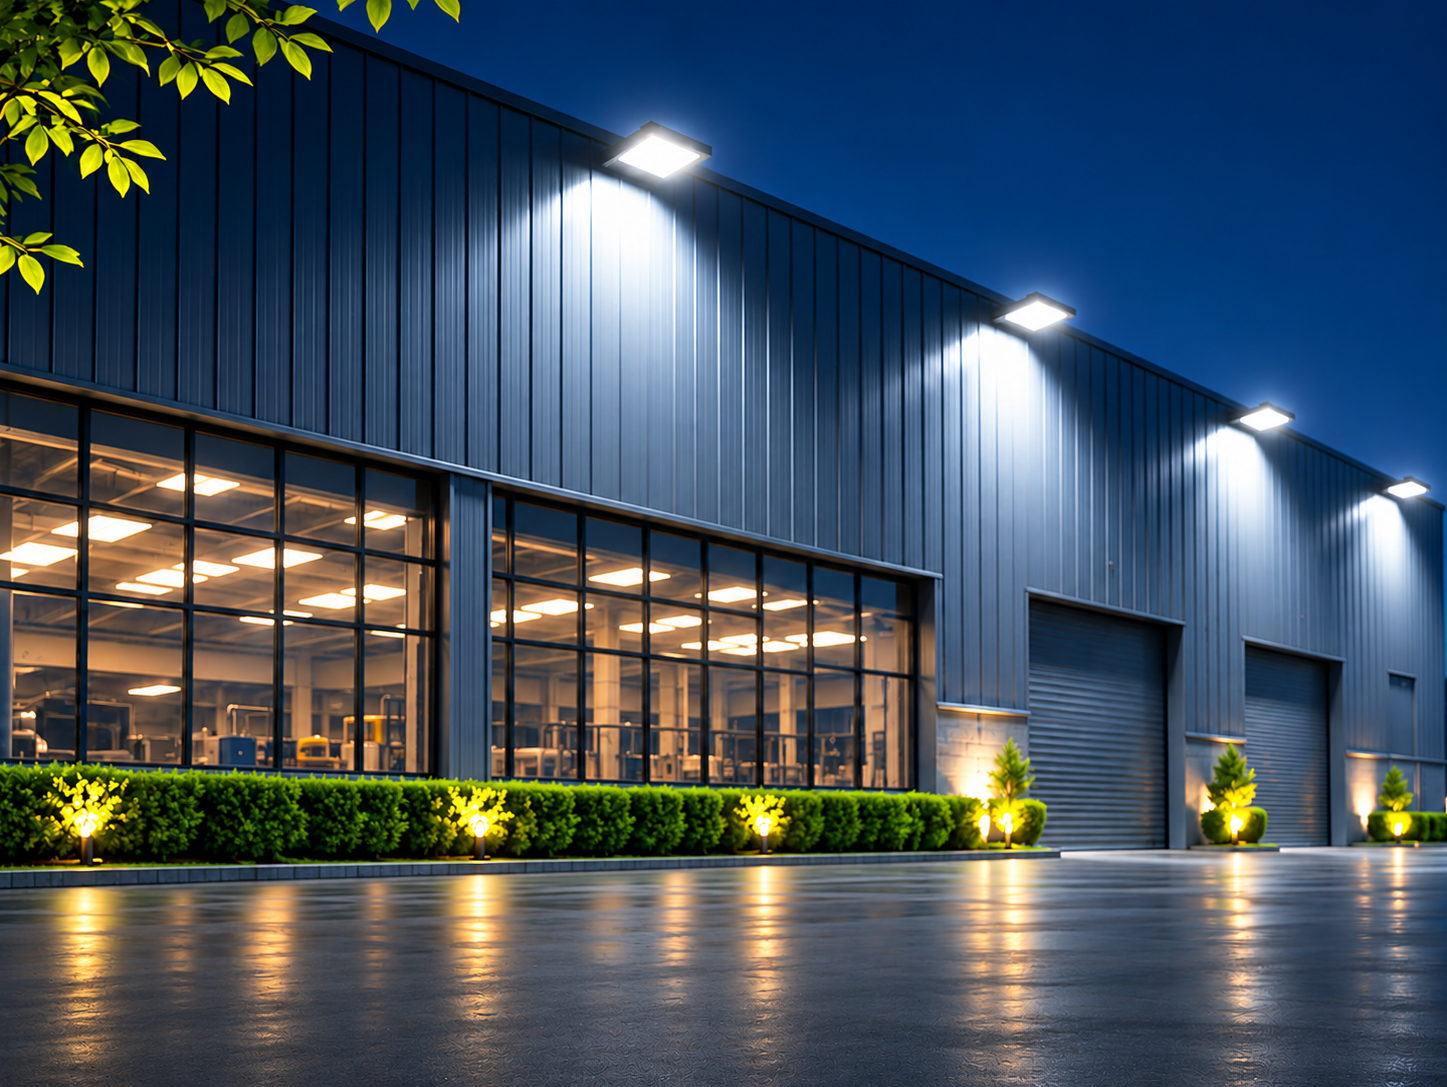
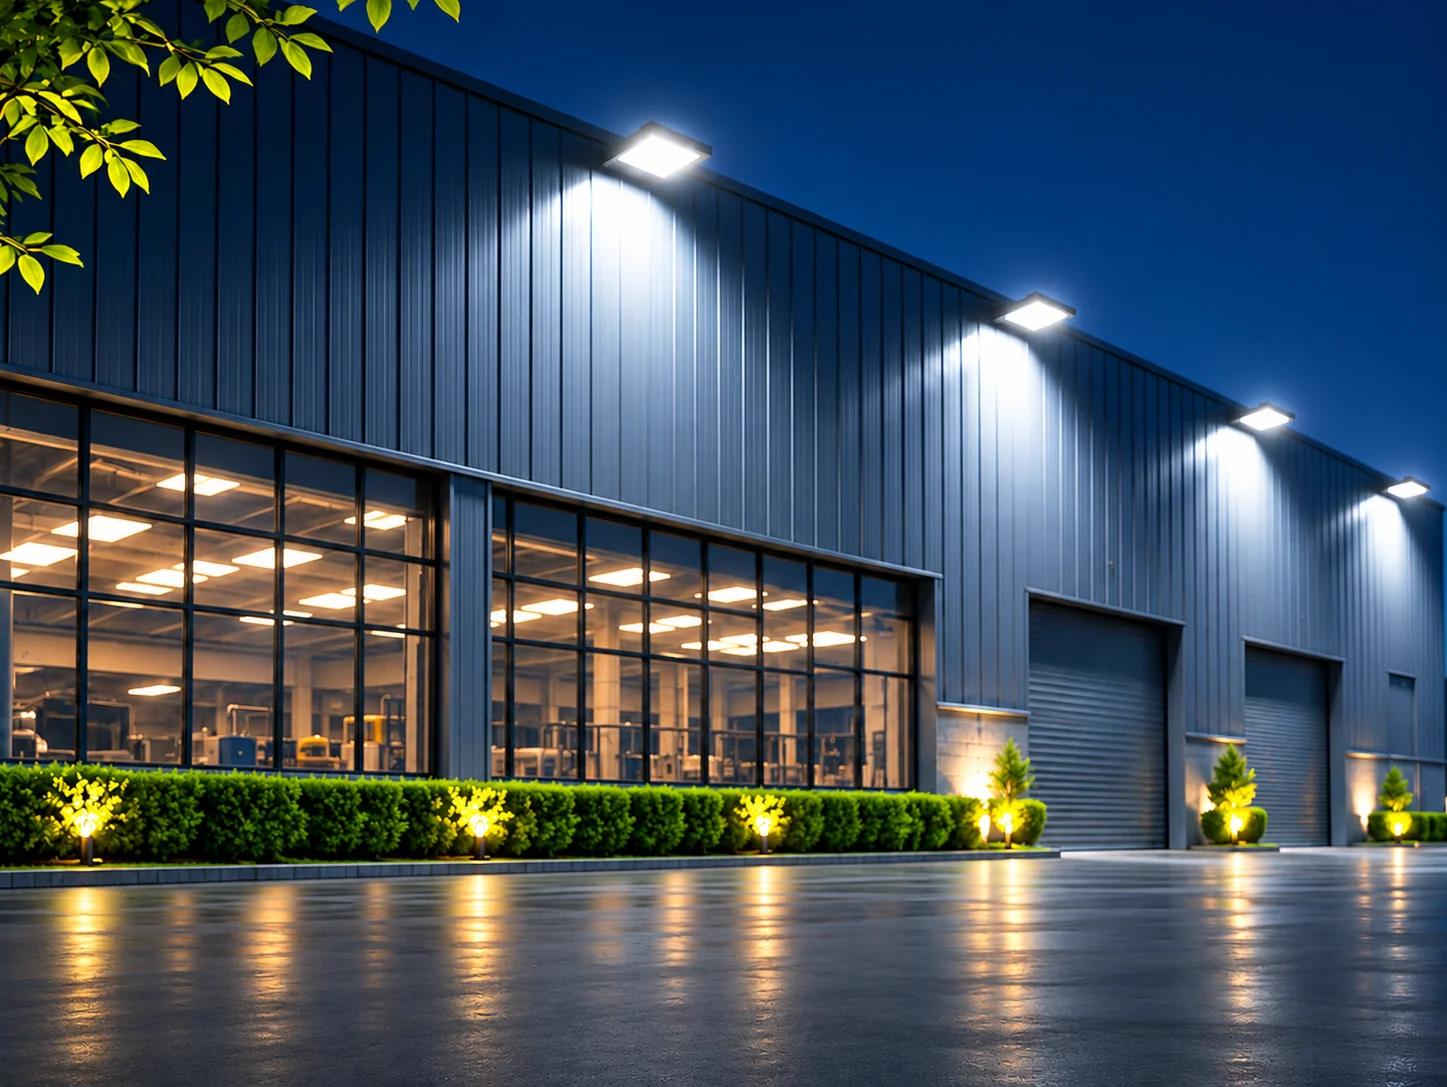
Lighten image loading and smooth Android homepage motion

diff --git a/src/components/home/streetlight-scene.tsx b/src/components/home/streetlight-scene.tsx
@@ -17,6 +17,7 @@ type SceneProps = {
   reduced: boolean;
   compactLayout: boolean;
   paused: boolean;
+  renderOnDemand: boolean;
   pointer: RefObject<{ x: number; y: number }>;
   illumination: RefObject<HTMLDivElement | null>;
   onReady: () => void;
@@ -33,6 +34,7 @@ function Fixture({
   power,
   paused,
   reduced,
+  renderOnDemand,
   compactLayout,
   pointer,
   illumination,
@@ -71,7 +73,7 @@ function Fixture({
 
   useEffect(() => {
     invalidate();
-  }, [invalidate, power, reduced]);
+  }, [invalidate, paused, power, reduced]);
 
   useEffect(() => {
     const canvas = gl.domElement;
@@ -90,7 +92,8 @@ function Fixture({
     readySent.current = true;
     // Three.Clock is deprecated. Cap frame gaps after Safari tab suspension.
     const elapsed = elapsedRef.current;
-    elapsedRef.current += Math.min(delta, 0.05);
+    const frameDelta = Math.min(delta, 0.05);
+    elapsedRef.current += frameDelta;
     const t = MathUtils.smoothstep(elapsed, 0, 1.4);
     fixture.rotation.y = reduced
       ? -0.39
@@ -98,7 +101,7 @@ function Fixture({
           fixture.rotation.y,
           -0.39 + (1 - t) * 0.5 + pointer.current.x * 0.13,
           5,
-          delta,
+          frameDelta,
         );
     fixture.rotation.x = reduced
       ? 0.02
@@ -106,7 +109,7 @@ function Fixture({
           fixture.rotation.x,
           0.02 + pointer.current.y * 0.085,
           5,
-          delta,
+          frameDelta,
         );
     fixture.position.y = reduced
       ? 0
@@ -114,7 +117,7 @@ function Fixture({
           fixture.position.y,
           (1 - t) * 0.16 - pointer.current.y * 0.06,
           5,
-          delta,
+          frameDelta,
         );
     const intensity = reduced
       ? 1
@@ -124,7 +127,7 @@ function Fixture({
     lens.emissiveIntensity =
       reduced || firstFrame || paused
         ? emission
-        : MathUtils.damp(lens.emissiveIntensity, emission, 12, delta);
+        : MathUtils.damp(lens.emissiveIntensity, emission, 12, frameDelta);
     if (spotlight.current) spotlight.current.intensity = 20 * power * intensity;
 
     const overlay = illumination.current;
@@ -136,6 +139,12 @@ function Fixture({
       setLightProperty(overlay, "--light-spread", spread.toFixed(3));
     }
     if (firstFrame) onReady();
+    if (
+      renderOnDemand && !reduced && !paused &&
+      (elapsed < 2.6 || Math.abs(lens.emissiveIntensity - emission) > 0.005)
+    ) {
+      invalidate();
+    }
   });
   return (
     <group ref={group} rotation={[0.02, -0.2, -0.13]}>
@@ -258,7 +267,7 @@ export default function StreetlightScene(props: SceneProps) {
     <Canvas
       aria-hidden
       dpr={[1, props.compactLayout ? 1.2 : 1.5]}
-      frameloop={props.reduced || props.paused ? "demand" : "always"}
+      frameloop={props.reduced || props.paused || props.renderOnDemand ? "demand" : "always"}
       camera={{ position: [-0.18, -1.26, 6.5], fov: 39 }}
       gl={{ alpha: true, antialias: true, powerPreference: "low-power" }}
       onCreated={({ camera, gl }) => {

diff --git a/src/components/global-presence/global-presence.tsx b/src/components/global-presence/global-presence.tsx
@@ -1,6 +1,7 @@
 "use client";
 
 import dynamic from "next/dynamic";
+import Image from "next/image";
 import { ArrowRight, Globe2, MapPin, RotateCcw } from "lucide-react";
 import {
   Component,
@@ -97,44 +98,52 @@ function RegionalMap({ country }: { country: Country }) {
       role="img"
       aria-label={`Regional map with ${country.name} highlighted`}
     >
-      <svg viewBox="0 0 1000 560" aria-hidden="true">
-        <image href="/maps/region.webp" width="1000" height="560" />
-        {country.code !== origin.code && (
-          <path
-            d={`M ${x} ${y} Q ${(x + destX) / 2} ${Math.min(y, destY) - 42} ${destX} ${destY}`}
-            fill="none"
-            stroke="#ffffff"
-            strokeWidth="3"
-            strokeDasharray="8 6"
-          />
-        )}
-        {countries.map((point) => {
-          const [cx, cy] = position(point);
-          const selected = point.code === country.code;
-          return (
-            <g key={point.code}>
-              {selected && (
+      <div className={styles.fallbackMap}>
+        <Image
+          src="/maps/region.webp"
+          alt=""
+          fill
+          loading="lazy"
+          sizes="(max-width: 980px) 92vw, (max-width: 1450px) 60vw, 870px"
+        />
+        <svg viewBox="0 0 1000 560" aria-hidden="true">
+          {country.code !== origin.code && (
+            <path
+              d={`M ${x} ${y} Q ${(x + destX) / 2} ${Math.min(y, destY) - 42} ${destX} ${destY}`}
+              fill="none"
+              stroke="#ffffff"
+              strokeWidth="3"
+              strokeDasharray="8 6"
+            />
+          )}
+          {countries.map((point) => {
+            const [cx, cy] = position(point);
+            const selected = point.code === country.code;
+            return (
+              <g key={point.code}>
+                {selected && (
+                  <circle
+                    cx={cx}
+                    cy={cy}
+                    r="15"
+                    fill="none"
+                    stroke="#ffffff"
+                    strokeWidth="2"
+                  />
+                )}
                 <circle
                   cx={cx}
                   cy={cy}
-                  r="15"
-                  fill="none"
-                  stroke="#ffffff"
+                  r={selected ? 8 : 5}
+                  fill={selected ? "#ffffff" : "#b6b6b6"}
+                  stroke="#000000"
                   strokeWidth="2"
                 />
-              )}
-              <circle
-                cx={cx}
-                cy={cy}
-                r={selected ? 8 : 5}
-                fill={selected ? "#ffffff" : "#b6b6b6"}
-                stroke="#000000"
-                strokeWidth="2"
-              />
-            </g>
-          );
-        })}
-      </svg>
+              </g>
+            );
+          })}
+        </svg>
+      </div>
     </div>
   );
 }

diff --git a/tests/mobile.spec.ts b/tests/mobile.spec.ts
@@ -129,9 +129,11 @@ for (const [width, height] of viewports) {
         await expect(page.locator(".collection-card-link")).toHaveAttribute("href", detailPath);
       } else if (route === detailPath) {
         await page.getByRole("button", { name: "Show detail crop" }).click();
+        await expect(page.locator(".product-lightbox img")).toHaveCount(0);
         await page.getByRole("button", { name: "Open full-size fixture image" }).click();
         const gallery = page.getByRole("dialog", { name: "Detail crop" });
         await expect(gallery).toBeVisible();
+        await expect(gallery.locator("img")).toHaveAttribute("loading", "lazy");
         await expect(gallery.getByRole("button", { name: "Close fixture image" })).toBeInViewport({ ratio: 1 });
         await gallery.getByRole("button", { name: "Magnify fixture" }).click();
         await page.keyboard.press("Escape");
@@ -188,6 +190,11 @@ test("homepage motion and fallback with Android Reduce Motion on", async ({ page
   await page.setViewportSize({ width: 390, height: 844 });
   await page.emulateMedia({ reducedMotion: "reduce" });
   await page.addInitScript(() => {
+    const matchMedia = window.matchMedia.bind(window);
+    window.matchMedia = (query) =>
+      query === "(any-pointer: coarse) and (max-width: 1024px)"
+        ? matchMedia("not all")
+        : matchMedia(query);
     const original = HTMLCanvasElement.prototype.getContext;
     Object.defineProperty(HTMLCanvasElement.prototype, "getContext", {
       value(this: HTMLCanvasElement, type: string, ...options: unknown[]) {
@@ -203,6 +210,7 @@ test("homepage motion and fallback with Android Reduce Motion on", async ({ page
   await expect(stage.locator('[class*="_heroGlow"]')).toHaveCSS("animation-duration", "1.5s");
   const indiaMap = page.getByRole("img", { name: "Regional map with India highlighted" });
   await expect(indiaMap).toBeVisible();
+  await expect(indiaMap.locator("img")).toHaveAttribute("loading", "lazy");
   await page.getByRole("button", { name: "Oman", exact: true }).click();
   await expect(page.getByRole("img", { name: "Regional map with Oman highlighted" })).toBeVisible();
 });

diff --git a/src/components/gallery.tsx b/src/components/gallery.tsx
@@ -11,12 +11,14 @@ export function Gallery({
   images: [ProductImage, ...ProductImage[]];
 }) {
   const [index, setIndex] = useState(0);
+  const [opened, setOpened] = useState(false);
   const [zoom, setZoom] = useState(false);
   const dialog = useRef<HTMLDialogElement>(null);
   const image = images[index];
 
   function openImage() {
     setZoom(false);
+    setOpened(true);
     dialog.current?.showModal();
   }
 
@@ -32,7 +34,6 @@ export function Gallery({
           <CatalogueImage
             {...image}
             sizes="(max-width: 805px) 94vw, 55vw"
-            eager
           />
         </span>
         <span className="card-icon">
@@ -64,6 +65,7 @@ export function Gallery({
       <dialog
         className="product-lightbox"
         ref={dialog}
+        onClose={() => setOpened(false)}
         aria-labelledby="product-image-title"
       >
         <header>
@@ -85,11 +87,13 @@ export function Gallery({
           onClick={() => setZoom(!zoom)}
         >
           <span className={zoom ? "image-magnified" : undefined}>
-            <CatalogueImage
-              src={image.src}
-              alt={image.alt}
-              sizes="(max-width: 700px) 94vw, 850px"
-            />
+            {opened && (
+              <CatalogueImage
+                src={image.src}
+                alt={image.alt}
+                sizes="(max-width: 700px) 94vw, 850px"
+              />
+            )}
           </span>
         </button>
       </dialog>

diff --git a/src/components/use-media-query.ts b/src/components/use-media-query.ts
@@ -29,11 +29,11 @@ export function useSiteReducedMotion() {
   return useMediaQuery(reducedMotionQuery);
 }
 
-function isIPhone() {
-  return /\biPhone\b/i.test(window.navigator.userAgent);
+function isAndroidOrIPhone() {
+  return /\b(?:Android|iPhone)\b/i.test(window.navigator.userAgent);
 }
 
 export function useTouchHomepageMotion() {
-  // The pointer media query describes input hardware, so it can miss iPhones.
-  return useMediaQuery("(any-pointer: coarse) and (max-width: 1024px)", isIPhone);
+  // The pointer media query describes input hardware, so fall back to the mobile platform when needed.
+  return useMediaQuery("(any-pointer: coarse) and (max-width: 1024px)", isAndroidOrIPhone);
 }

diff --git a/src/components/home-hero.tsx b/src/components/home-hero.tsx
@@ -194,7 +194,7 @@ export function HomeHero({ catalogue }: { catalogue?: string }) {
             src="/images/streetlight-concept.webp"
             alt=""
             fill
-            priority
+            preload
             sizes="(max-width: 900px) 100vw, 64vw"
           />
           {enabled && (
@@ -205,6 +205,7 @@ export function HomeHero({ catalogue }: { catalogue?: string }) {
                   reduced={reduced}
                   compactLayout={compact}
                   paused={!visible}
+                  renderOnDemand={touchMotion}
                   pointer={pointer}
                   illumination={illumination}
                   onReady={markReady}

diff --git a/src/components/catalogue-image.tsx b/src/components/catalogue-image.tsx
@@ -8,12 +8,10 @@ export function CatalogueImage({
   src,
   alt,
   sizes,
-  eager = false,
 }: {
   src: string;
   alt: string;
   sizes: string;
-  eager?: boolean;
 }) {
   const [failedSrc, setFailedSrc] = useState<string>();
   if (failedSrc === src) {
@@ -35,7 +33,7 @@ export function CatalogueImage({
       alt={alt}
       fill
       sizes={sizes}
-      loading={eager ? "eager" : "lazy"}
+      loading="lazy"
       onError={() => setFailedSrc(src)}
     />
   );

diff --git a/src/components/global-presence/presence.module.css b/src/components/global-presence/presence.module.css
@@ -63,12 +63,18 @@
 .fallback {
   @apply grid place-items-center;
 }
-.fallback svg {
-  display: block;
+.fallbackMap {
+  position: relative;
   width: 100%;
-  height: auto;
+  aspect-ratio: 1000 / 560;
 }
-.fallback image {
+.fallbackMap svg {
+  position: absolute;
+  inset: 0;
+  width: 100%;
+  height: 100%;
+}
+.fallbackMap img {
   filter: grayscale(1);
 }
 .controls {
